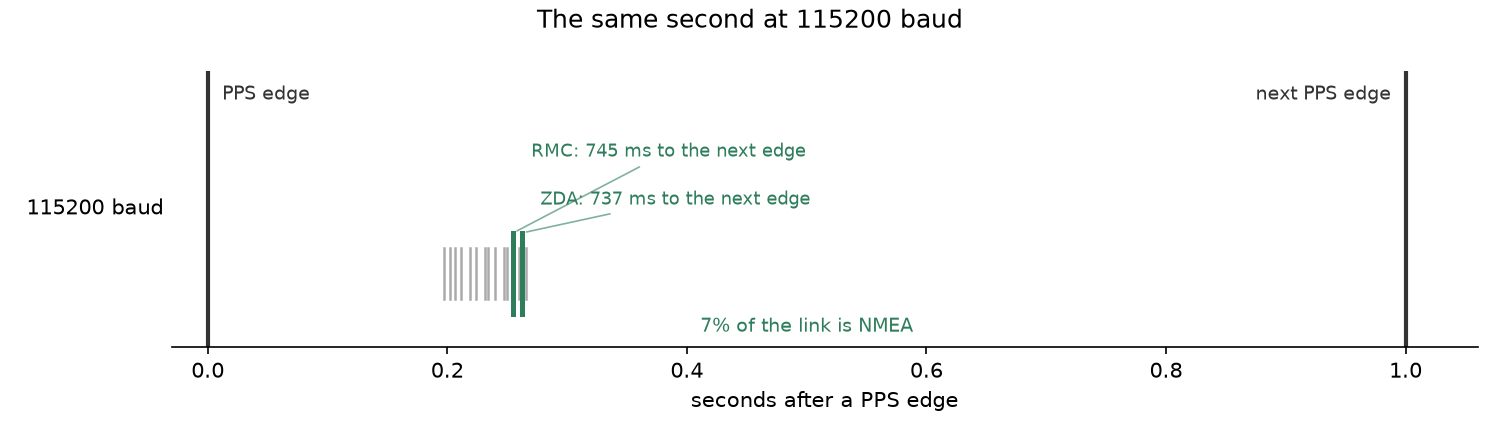
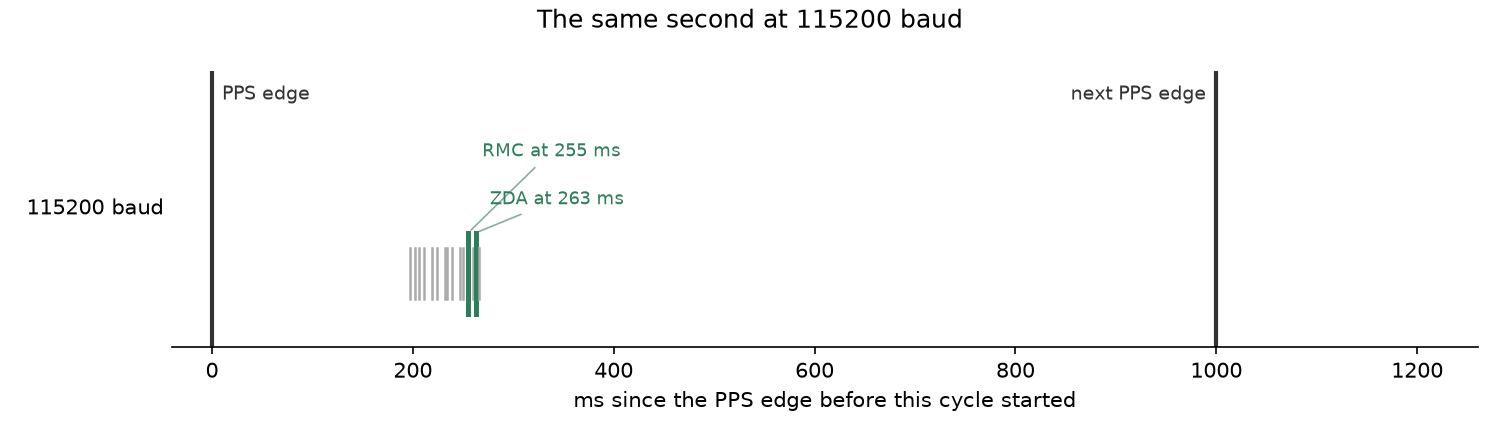
docs: slice the burst figure by cycle, not by the one-second window
The burst figure cut the log at PPS edges. At 9600 a cycle runs 764 ms and starts
285 ms into the window, so it spills across the boundary and the window picks up
sentences from two different cycles. What that drew was the previous cycle's ZDA
at the start of the window and this cycle's RMC near the end — reading, wrongly,
as ZDA arriving before RMC. The figure contradicted the emission order measured
elsewhere in the report.

Cut at GGA instead, which measure_pairing.py establishes as the start of a cycle,
and plot against the edge preceding it. The representative cycle now reads
straight: RMC at 945 ms, 55 ms short of the next edge, and ZDA at 1002 ms — two
milliseconds past it. That is the failure, visible without commentary.

Dropped "85% of the link is NMEA" from that plot. Link occupancy belongs to the
bandwidth figure; on a timeline of arrivals it is a number from another question.

The GSV figure now shows the split it was only asserting: 23 satellites drawn as
dots, four to a sentence, making six GSV. The fixed sentences around the GSV
block are named individually (GGA, GLL, GSA×2 ahead of it; RMC, VTG, ZDA, GST
behind) since the set does not vary — naming them is what shows the time
sentences sitting downstream of the part that grows.

Claude-Session: https://claude.ai/code/session_019RSxURXQrEdaZnzWdFm1sE

diff --git a/docs/report/pps-nmea-pairing/logs/pairing/plot_pairing.py b/docs/report/pps-nmea-pairing/logs/pairing/plot_pairing.py
@@ -69,27 +69,6 @@ def margins(edges, sentences, kind):
     return out
 
 
-def one_second(edges, sentences, want=("RMC", "ZDA")):
-    """代表的な 1 秒 (エッジからエッジ) を選び、その区間のセンテンス到着を実測のまま返す。
-
-    模式図ではなくログそのものを描くために使う。選ぶのは「その区間に載ったセンテンス数が
-    中央値の区間」で、たまたま短い/長い秒を代表にしないようにする。
-    """
-    per_edge: dict[int, list[tuple[float, str]]] = {}
-    for t, k, _n in sentences:
-        prev = [i for i, e in enumerate(edges) if e <= t]
-        if prev and prev[-1] + 1 < len(edges):
-            per_edge.setdefault(prev[-1], []).append((t - edges[prev[-1]], k))
-    if not per_edge:
-        return []
-    counts = sorted(len(v) for v in per_edge.values())
-    target = counts[len(counts) // 2]
-    for _i, items in sorted(per_edge.items()):
-        if len(items) == target:
-            return sorted(items)
-    return sorted(next(iter(per_edge.values())))
-
-
 def occupancy(edges, sentences, baud):
     """NMEA が UART を毎秒どれだけ占有しているか。(占有率, 1 秒あたりの文字数) を返す。
 
@@ -102,8 +81,45 @@ def occupancy(edges, sentences, baud):
     return n * 10 / span / baud, n / span
 
 
+def one_cycle(edges, sentences):
+    """代表的な 1 サイクルの到着を、その直前の PPS エッジからの経過 (ms) で返す。
+
+    切れ目は GGA に取る。サイクルの先頭が GGA であることは、同じ UTC 秒を載せた
+    センテンスを突き合わせて確かめてある (measure_pairing.py)。
+
+    エッジからエッジの「窓」で切ってはいけない。9600 bps ではサイクルが 1 秒より長いので、
+    窓には前後のサイクルのセンテンスが混ざる。混ざったまま並べると、前サイクルの ZDA が
+    窓の冒頭に写り、ZDA が RMC より先に届いているように見える。実際の送出順は逆である。
+
+    返す経過は 1000 ms を超えうる。超えている部分が、そのサイクルが次のエッジを跨いだ量に
+    あたる。
+    """
+    chunks, cur = [], None
+    for t, kind, _n in sentences:
+        if kind == "GGA":
+            if cur:
+                chunks.append(cur)
+            cur = []
+        if cur is not None:
+            cur.append((t, kind))
+    if cur:
+        chunks.append(cur)
+    if not chunks:
+        return []
+    # たまたま短い/長いサイクルを代表にしないよう、本数が中央値のものを選ぶ。
+    target = sorted(len(c) for c in chunks)[len(chunks) // 2]
+    for c in chunks:
+        if len(c) != target:
+            continue
+        prev = [e for e in edges if e <= c[0][0]]
+        if not prev:
+            continue
+        return [((t - prev[-1]) * 1000, k) for t, k in c]
+    return []
+
+
 def fig_timeline(panels, title, path: Path):
-    """代表的な 1 秒に、実測のセンテンス到着をそのまま並べる。
+    """代表的な 1 サイクルの到着を、直前の PPS エッジからの経過で並べる。
 
     条件ごとに 1 枚ずつ描く。1 枚に 9600 と 115200 を並べると、9600 の話をしている段で
     115200 の結果まで目に入ってしまい、図が本文より先に答えを出す。
@@ -114,13 +130,12 @@ def fig_timeline(panels, title, path: Path):
     fig, axes = plt.subplots(
         len(panels), 1, figsize=(10, 2.9 * len(panels)), sharex=True, squeeze=False
     )
-    for ax, (label, items, colour, note) in zip(axes[:, 0], panels):
+    for ax, (label, items, colour) in zip(axes[:, 0], panels):
         for x, text, ha, dx in (
-            (0.0, "PPS edge", "left", 0.012),
-            (1.0, "next PPS edge", "right", -0.012),
+            (0.0, "PPS edge", "left", 10),
+            (1000.0, "next PPS edge", "right", -10),
         ):
             ax.axvline(x, color="#333", lw=2)
-            # 線の上に文字を乗せない。線から少しずらして、外向きでなく内向きに逃がす。
             ax.text(x + dx, 1.42, text, ha=ha, va="top", fontsize=9, color="#333")
 
         for off, kind in items:
@@ -132,17 +147,15 @@ def fig_timeline(panels, title, path: Path):
                 lw=2.4 if hot else 1.2,
             )
 
-        # 時刻センテンスの注釈は上へ、二本を縦にずらして重ならないようにする。
         for kind, y in (("RMC", 1.06), ("ZDA", 0.80)):
             hit = [o for o, k in items if k == kind]
             if not hit:
                 continue
             off = hit[0]
-            # 右端に近ければ右揃えにして、図の外へ出さない。
-            ha = "right" if off > 0.62 else "left"
-            dx = -0.015 if ha == "right" else 0.015
+            ha = "right" if off > 700 else "left"
+            dx = -14 if ha == "right" else 14
             ax.annotate(
-                f"{kind}: {(1.0 - off) * 1000:.0f} ms to the next edge",
+                f"{kind} at {off:.0f} ms",
                 xy=(off, 0.62),
                 xytext=(off + dx, y),
                 ha=ha,
@@ -152,15 +165,14 @@ def fig_timeline(panels, title, path: Path):
                 arrowprops=dict(arrowstyle="-", color=colour, lw=0.8, alpha=0.6),
             )
 
-        ax.text(0.5, 0.06, note, ha="center", va="bottom", fontsize=9, color=colour)
         ax.set_ylim(0, 1.5)
         ax.set_yticks([])
         ax.set_ylabel(label, rotation=0, ha="right", va="center", fontsize=10)
         for side in ("top", "right", "left"):
             ax.spines[side].set_visible(False)
 
-    axes[-1, 0].set_xlim(-0.03, 1.06)
-    axes[-1, 0].set_xlabel("seconds after a PPS edge")
+    axes[-1, 0].set_xlim(-40, 1260)
+    axes[-1, 0].set_xlabel("ms since the PPS edge before this cycle started")
     fig.suptitle(title, fontsize=12)
     fig.tight_layout()
     fig.savefig(path, dpi=150)
@@ -262,40 +274,30 @@ def main() -> int:
     print(f"115200 {fast_c:.0f} chars/s -> {fast_u * 100:.0f}% of the link")
 
     for name, e, s in (("9600  ", slow_e, slow_s), ("115200", fast_e, fast_s)):
-        it = one_second(e, s)
+        it = one_cycle(e, s)
         gaps = [b[0] - a[0] for a, b in zip(it, it[1:])]
         print(
-            f"{name} burst {it[0][0] * 1000:.0f}..{it[-1][0] * 1000:.0f} ms "
-            f"(span {(it[-1][0] - it[0][0]) * 1000:.0f} ms, n={len(it)}, "
-            f"max gap {max(gaps) * 1000:.0f} ms)"
+            f"{name} cycle {it[0][0]:.0f}..{it[-1][0]:.0f} ms after the preceding edge "
+            f"(span {it[-1][0] - it[0][0]:.0f} ms, n={len(it)}, "
+            f"max gap {max(gaps):.0f} ms)"
         )
         for kind in ("RMC", "ZDA"):
             hit = [o for o, k in it if k == kind]
             if hit:
-                print(f"{name}   {kind} at {hit[0] * 1000:.0f} ms, {(1 - hit[0]) * 1000:.0f} ms to next edge")
+                print(f"{name}   {kind} at {hit[0]:.0f} ms ({hit[0] - 1000:+.0f} ms relative to the next edge)")
 
     fig_timeline(
         [
-            (
-                "9600 baud",
-                one_second(slow_e, slow_s),
-                SLOW_C,
-                f"{slow_u * 100:.0f}% of the link is NMEA",
-            )
+            ("9600 baud", one_cycle(slow_e, slow_s), SLOW_C)
         ],
-        "One second of NMEA at 9600 baud, as logged",
+        "One cycle of NMEA at 9600 baud, as logged",
         OUT / "fig-burst-9600.png",
     )
     fig_timeline(
         [
-            (
-                "115200 baud",
-                one_second(fast_e, fast_s),
-                FAST_C,
-                f"{fast_u * 100:.0f}% of the link is NMEA",
-            )
+            ("115200 baud", one_cycle(fast_e, fast_s), FAST_C)
         ],
-        "The same second at 115200 baud",
+        "The same cycle at 115200 baud",
         OUT / "fig-burst-115200.png",
     )
     fig_margin(

diff --git a/docs/report/pps-nmea-pairing/README.md b/docs/report/pps-nmea-pairing/README.md
@@ -100,13 +100,13 @@ GPSDO の UTC は 1 秒遅れたままだった。
 
 ## 9600 bps の NMEA バースト
 
-ログに残った到着時刻を、エッジからエッジまでの 1 秒に並べると以下のようになる。
+ログに残った到着時刻を、1 サイクルぶん並べると以下のようになる。
 
-![9600 bps での一秒ぶんの NMEA 到着](fig-burst-9600.png)
+![9600 bps での 1 サイクルぶんの NMEA 到着](fig-burst-9600.png)
 
-14 本のセンテンスが 48 ms から 974 ms まで、1 秒ぜんたいに散らばっている。
-RMC はこの窓では次のエッジの 55 ms 手前にいて、その 73 ms 後の ZDA は窓を越えるので、冒頭に写っているのは一つ前の周期のものである。
-一組のセンテンスが境界をまたいで置かれている。
+1 サイクル 14 本が 285 ms から 1049 ms まで、764 ms にわたって並んでいる。
+RMC は次のエッジの 55 ms 手前に、ZDA はその先、エッジを 2 ms 越えたところに届いている。
+一組のセンテンスが境界をまたいでいる。
 
 散らばるのは帯域が足りないからである。
 9600 bps では 1 文字 10 bit (8N1) の送信に約 1 ms かかる (10 / 9600 = 1.04 ms)。
@@ -130,12 +130,12 @@ UART はほぼ埋まっていて、センテンス間の最大の空きは 209 m
 
 バーストが 1 秒を端から端まで使うので、その開始が少し揺れるだけで、どのセンテンスも境界の反対側へ移る。
 
-## センテンスを替えると、届く時刻は変わるか
+## RMC と ZDA は、境界の手前に収まるか
 
-仕様のうえで ZDA が正しいことと、ZDA が境界の手前に届くことは、別の話である。
-そこで、どちらのセンテンスがいつ届くのかを測った。
+1 秒がここまで埋まっていると、時刻センテンスが次のエッジより前に届くかどうかは際どい。
+仕様のうえで ZDA が正しいことと、その ZDA が境界の手前に収まることは別なので、RMC と ZDA の両方について測った。
 
-まず送出順である。
+まず、バーストの中でどちらが先に出るか。
 仕様は順番について何も書いていないが、同じ UTC 秒を載せたセンテンスを一つのサイクルとしてまとめると、時刻を先頭フィールドに持つ 4 本はどちらの baudrate でもこの順に届いた。
 
 ```text
@@ -143,9 +143,9 @@ GGA → … → RMC → ZDA → GST
 ```
 
 ZDA がいるのは終わりのほうで、9600 bps では RMC の 73 ms 後になる。
-順番でいえば RMC のほうが早い。
+バーストの尻に近いぶん、ZDA のほうが境界へ押し付けられやすい。
 
-次に、センテンスが届いてから次のエッジまで何ミリ秒残っているかを測る。
+次に、それぞれが届いてから次のエッジまで何ミリ秒残っているかを測る。
 
 ![次のエッジまでの残りの測り方](fig-margin-def.svg)
 
@@ -188,7 +188,7 @@ GPS-R には UART の baudrate を動かすコマンドがあり、仕様 §2.3.
 同じ 1 秒を、同じ 14 本が埋め尽くすか、冒頭で終わるかの違いである。
 実測でも次のようになる。
 
-![115200 bps での同じ一秒](fig-burst-115200.png)
+![115200 bps での同じ 1 サイクル](fig-burst-115200.png)
 
 同じ一群が 197 ms から 266 ms までの 69 ms に収まっている。
 バーストが終わってから次のエッジまで 734 ms あり、境界は視野の外にある。
